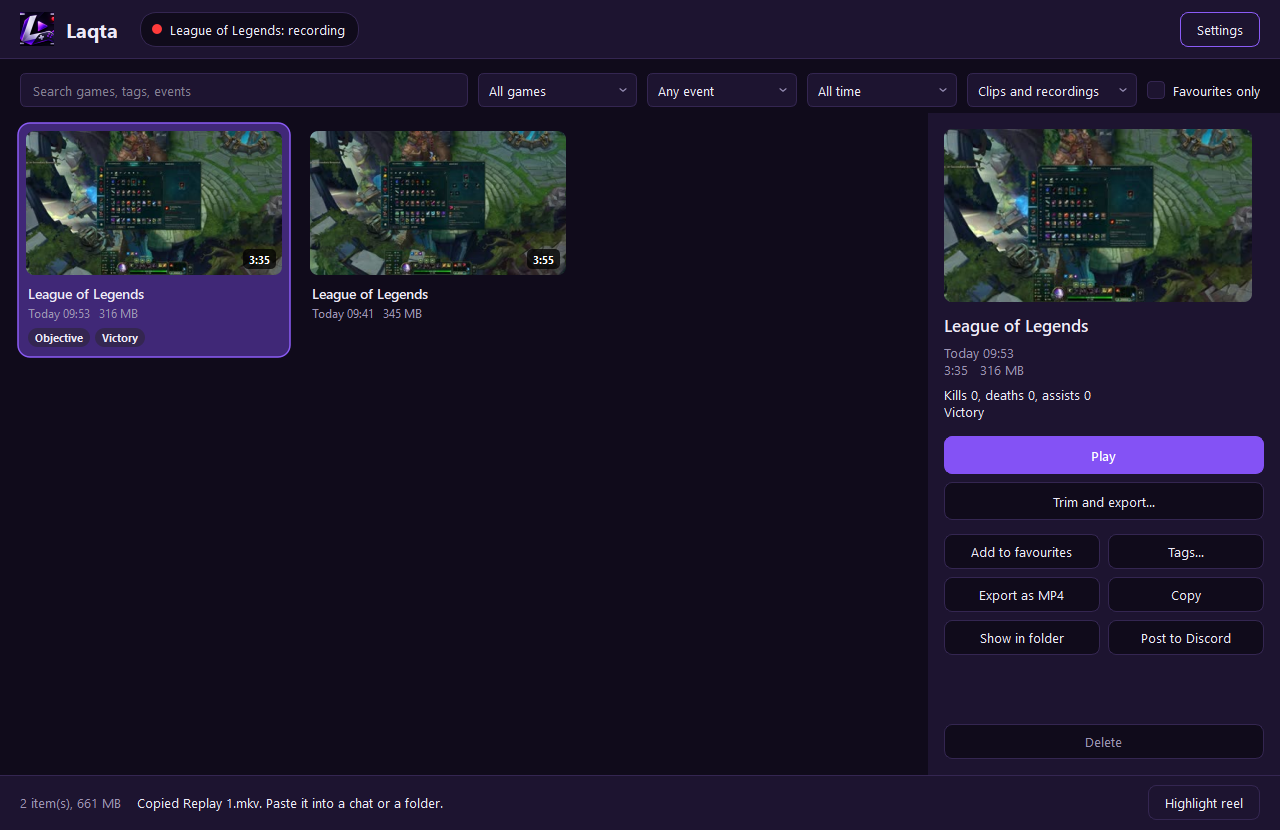
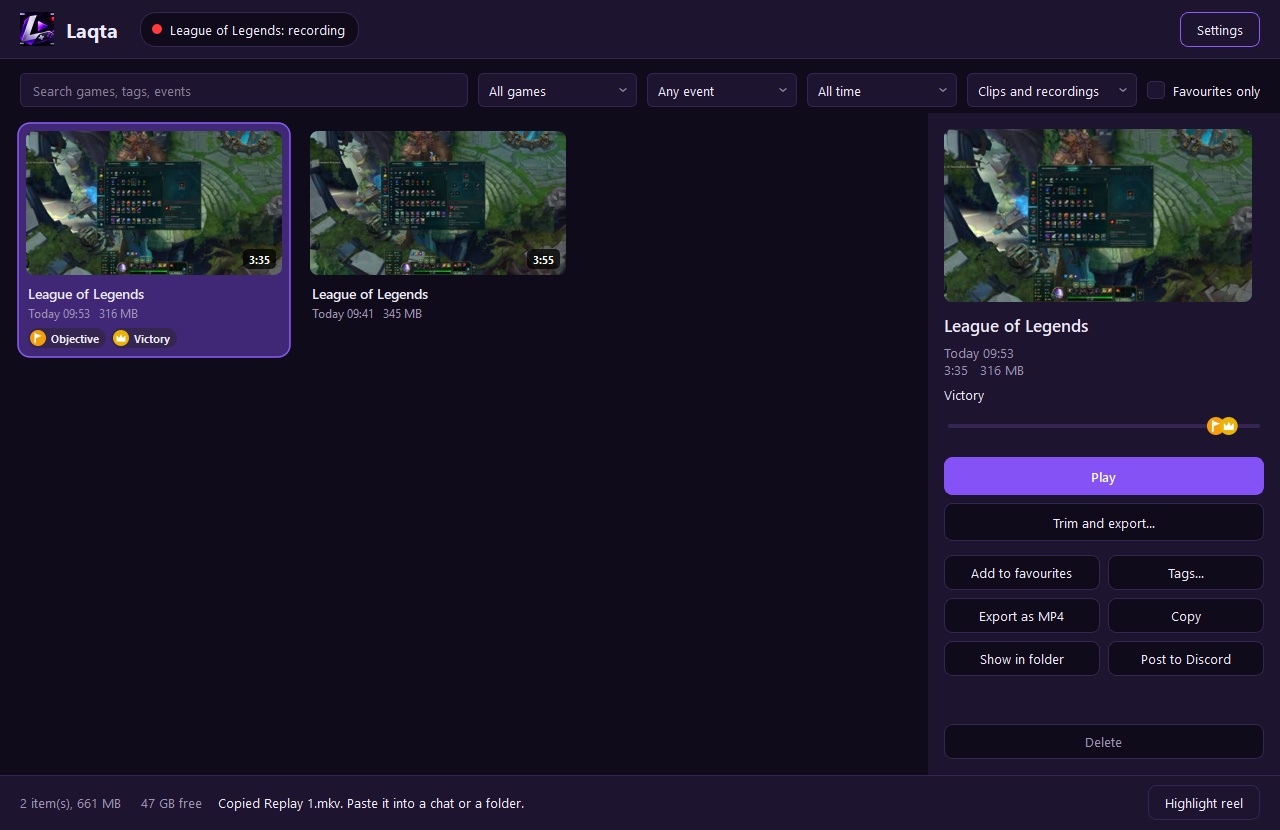
Add-a-game search over installed and running games; Deadlock; mode and event tiles; KDA on cards; free space in the footer

Changed region(s): [[0.7188, 0.4518, 1.0, 0.8133], [0.0938, 0.9639, 0.4062, 0.994], [0.0, 0.3916, 0.1562, 0.4217]]

diff --git a/laqta/ui/settings.py b/laqta/ui/settings.py
@@ -5,10 +5,10 @@ from __future__ import annotations
 import copy
 from pathlib import Path
 
-from PySide6.QtCore import Qt
-from PySide6.QtGui import QKeySequence
+from PySide6.QtCore import QSize, Qt
+from PySide6.QtGui import QIcon, QKeySequence
 from PySide6.QtWidgets import (
-    QApplication, QCheckBox, QColorDialog, QComboBox, QDialog, QFileDialog, QFormLayout, QFrame, QHBoxLayout, QKeySequenceEdit, QLabel, QLineEdit,
+    QApplication, QButtonGroup, QCheckBox, QGridLayout, QColorDialog, QComboBox, QDialog, QFileDialog, QFormLayout, QFrame, QHBoxLayout, QKeySequenceEdit, QLabel, QLineEdit,
     QListWidget, QListWidgetItem, QPushButton, QScrollArea, QSpinBox, QStackedWidget, QVBoxLayout, QWidget,
 )  # fmt: skip
 
@@ -22,7 +22,7 @@ from ..obs_controller.capture import KINDS
 from ..plugins import PLUGINS
 from ..storage import autostart, clips, config
 from ..storage.clips import usable_folder
-from . import theme
+from . import icons, theme
 
 # -- config edits (no Qt: unit-tested) ------------------------------------------------
 
@@ -79,39 +79,116 @@ def _spin(value: int, low: int, high: int) -> QSpinBox:
     return spin
 
 
-class PickRunningApp(QDialog):
+def addable_games(known: set[str], installed: list[dict], running: list[str]) -> list[dict]:
+    """What the "Add a game" window offers: installed games first, then other programs running
+    right now, without anything already in the list or anything that is clearly not a game."""
+    offered: dict[str, dict] = {}
+    for game in installed:
+        key = game["exe"].lower()
+        if key not in known and key not in offered:
+            offered[key] = {"exe": game["exe"], "name": game["name"], "where": "installed"}
+    for exe in sorted(set(running), key=str.lower):
+        key = exe.lower()
+        if key.endswith(".exe") and key not in known and key not in offered and key not in NOT_GAMES:
+            offered[key] = {"exe": exe, "name": Path(exe).stem, "where": "running"}
+    return list(offered.values())
+
+
+class AddGameDialog(QDialog):
+    """Search the games installed on this PC (Steam, Epic, GOG) and the programs running now,
+    and add any of them. Nothing is looked up online: the list is this PC's own."""
+
     def __init__(self, parent: QWidget, known: set[str]):
         super().__init__(parent)
-        self.setWindowTitle(t("games.pick_title"))
-        self.resize(380, 460)
+        self.setWindowTitle(t("games.add_title"))
+        self.resize(460, 560)
         layout = QVBoxLayout(self)
-        layout.addWidget(_label(t("games.pick_hint"), "hint"))
+        layout.setContentsMargins(20, 18, 20, 16)
+        layout.setSpacing(10)
         self.filter = QLineEdit()
+        self.filter.setPlaceholderText(t("games.search"))
         self.filter.setClearButtonEnabled(True)
         self.list = QListWidget()
-        names = sorted({n for n in processes().values() if n.lower() not in known | NOT_GAMES and n.lower().endswith(".exe")}, key=str.lower)
-        self.list.addItems(names)
+        self.list.setSelectionMode(QListWidget.SelectionMode.ExtendedSelection)
+        self.setCursor(Qt.CursorShape.WaitCursor)
+        try:  # ponytail: scanned on the UI thread, about a second; a worker thread if big libraries stall it
+            installed = library_scan.scan(known)
+        finally:
+            self.unsetCursor()
+        section = None
+        for game in addable_games(known, installed, list(processes().values())):
+            if game["where"] != section:
+                section = game["where"]
+                head = QListWidgetItem(t(f"games.{section}"))
+                head.setFlags(Qt.ItemFlag.NoItemFlags)  # a heading, not a choice
+                bold = head.font()
+                bold.setBold(True)
+                head.setFont(bold)
+                self.list.addItem(head)
+            item = QListWidgetItem(game["name"] if game["where"] == "running" else f"{game['name']}   ({game['exe']})")
+            item.setData(Qt.ItemDataRole.UserRole, game)
+            self.list.addItem(item)
+        self.note = _label(t("games.add_hint") if self.list.count() else t("games.add_none"), "hint")
         self.filter.textChanged.connect(self._apply_filter)
         self.list.itemDoubleClicked.connect(lambda _: self.accept())
-        add, cancel = QPushButton(t("button.add")), QPushButton(t("button.cancel"))
+        browse, add, cancel = QPushButton(t("games.browse")), QPushButton(t("button.add")), QPushButton(t("button.cancel"))
         add.setObjectName("primary")
+        add.setDefault(True)
         add.clicked.connect(self.accept)
         cancel.clicked.connect(self.reject)
+        browse.clicked.connect(self._browse)
+        self.browsed: dict | None = None
         buttons = QHBoxLayout()
+        buttons.setSpacing(10)
+        buttons.addWidget(browse)
         buttons.addStretch(1)
         buttons.addWidget(cancel)
         buttons.addWidget(add)
         layout.addWidget(self.filter)
         layout.addWidget(self.list, 1)
+        layout.addWidget(self.note)
         layout.addLayout(buttons)
+        self.filter.setFocus()
 
     def _apply_filter(self, text: str) -> None:
+        text = text.strip().lower()
         for i in range(self.list.count()):
-            self.list.item(i).setHidden(text.lower() not in self.list.item(i).text().lower())
+            item = self.list.item(i)
+            game = item.data(Qt.ItemDataRole.UserRole)
+            # Headings stay while searching is off; a search shows matches only.
+            item.setHidden(bool(text) and (game is None or text not in f"{game['name']} {game['exe']}".lower()))
 
-    def chosen(self) -> str | None:
-        item = self.list.currentItem()
-        return item.text() if item and not item.isHidden() else None
+    def _browse(self) -> None:
+        chosen, _ = QFileDialog.getOpenFileName(self, t("games.browse"), "", "Programs (*.exe)")
+        if chosen:
+            self.browsed = {"exe": Path(chosen).name, "name": Path(chosen).stem}
+            self.accept()
+
+    def chosen(self) -> list[dict]:
+        if self.browsed:
+            return [self.browsed]
+        return [item.data(Qt.ItemDataRole.UserRole) for item in self.list.selectedItems() if not item.isHidden() and item.data(Qt.ItemDataRole.UserRole)]
+
+
+class Tile(QPushButton):
+    """A choice shown as a block with a title and a line of explanation; checked = chosen."""
+
+    def __init__(self, title: str, hint: str = ""):
+        super().__init__()
+        self.setObjectName("tile")
+        self.setCheckable(True)
+        self.setAccessibleName(title)
+        self.setAccessibleDescription(hint)
+        inside = QVBoxLayout(self)
+        inside.setContentsMargins(12, 9, 12, 9)
+        inside.setSpacing(2)
+        for text, name in ((title, "tileTitle"), (hint, "tileHint")):
+            if text:
+                label = _label(text, name)
+                label.setAttribute(Qt.WidgetAttribute.WA_TransparentForMouseEvents)
+                inside.addWidget(label)
+        inside.addStretch(1)
+        self.setMinimumHeight(78 if hint else 40)
 
 
 class SettingsWindow(QDialog):
@@ -125,7 +202,8 @@ class SettingsWindow(QDialog):
 
         self.rail = QListWidget()
         self.rail.setObjectName("rail")
-        self.rail.setFixedWidth(170)
+        self.rail.setFixedWidth(196)
+        self.rail.setHorizontalScrollBarPolicy(Qt.ScrollBarPolicy.ScrollBarAlwaysOff)
         self.pages = QStackedWidget()
         for key, page in (("nav.general", self._general()), ("nav.games", self._games()), ("nav.recording", self._recording()),
                           ("nav.audio", self._audio()), ("nav.appearance", self._appearance()), ("nav.sharing", self._sharing()), ("nav.health", self._health())):
@@ -490,14 +568,13 @@ class SettingsWindow(QDialog):
         self.game_list.setHorizontalScrollBarPolicy(Qt.ScrollBarPolicy.ScrollBarAlwaysOff)
         self.game_list.setTextElideMode(Qt.TextElideMode.ElideMiddle)
         self.game_list.currentItemChanged.connect(lambda *_: self._show_game())
-        scan, add = QPushButton(t("games.scan")), QPushButton(t("games.add"))
-        scan.clicked.connect(self._scan)
-        add.clicked.connect(self._add_running)
+        add = QPushButton(t("games.add_title"))
+        add.setObjectName("primary")
+        add.clicked.connect(self._add_game)
         self.scan_result = _label("", "hint")
         left = QVBoxLayout()
+        left.addWidget(add)  # above the list: below it, it fell off the bottom of a short window
         left.addWidget(self.game_list, 1)
-        left.addWidget(scan)
-        left.addWidget(add)
         left.addWidget(self.scan_result)
 
         self.detail = QVBoxLayout()
@@ -550,21 +627,26 @@ class SettingsWindow(QDialog):
         self.detail.addWidget(_label(game.get("name") or exe, "gameName"))
         self.detail.addWidget(_label(exe, "muted"))
 
-        mode = _combo([(t(f"mode.{m}"), m) for m in MODES], game["mode"])
-        mode_help = _label(t(f"mode.{game['mode']}.help"), "hint")
+        tiles = QGridLayout()
+        tiles.setSpacing(8)
+        group = QButtonGroup(self.detail)
+        for i, m in enumerate(("session", "match", "events")):
+            tile = Tile(t(f"mode.{m}"), t(f"mode.{m}.help"))
+            tile.setChecked(m == ("session" if game["mode"] == "hybrid" else game["mode"]))  # hybrid is session under an old name
+            tile.clicked.connect(lambda _=False, chosen=m: set_game(self.cfg, exe, mode=chosen))
+            group.addButton(tile)
+            tiles.addWidget(tile, i, 0)  # full width: the explanations need the room
+        modes = QWidget()
+        modes.setObjectName("page")
+        modes.setLayout(tiles)
+        self.detail.addWidget(_label(t("games.mode"), "muted"))
+        self.detail.addWidget(modes)
         capture = _combo([(t("capture.auto"), None)] + [(t(f"capture.{k}"), k) for k in KINDS], game.get("capture"))
 
-        def on_mode() -> None:
-            set_game(self.cfg, exe, mode=mode.currentData())
-            mode_help.setText(t(f"mode.{mode.currentData()}.help"))
-
-        mode.currentIndexChanged.connect(on_mode)
         capture.currentIndexChanged.connect(lambda: set_game(self.cfg, exe, capture=capture.currentData()))
         form = QFormLayout()
         form.setVerticalSpacing(10)
         form.setHorizontalSpacing(16)
-        form.addRow(t("games.mode"), mode)
-        form.addRow("", mode_help)
         form.addRow(t("games.capture"), capture)
         game_audio = QCheckBox(t("games.game_audio"))
         game_audio.setChecked(bool(game.get("game_audio_only")))
@@ -612,23 +694,24 @@ class SettingsWindow(QDialog):
                 self.detail.addWidget(_label(t("games.player_hint"), "hint"))
             self.detail.addWidget(_label(t("games.events"), "muted"))
             disabled = set(game.get("disabled_events", ()))
-            boxes: dict[str, QCheckBox] = {}
+            boxes: dict[str, QPushButton] = {}
 
             def on_toggle() -> None:
                 set_game(self.cfg, exe, disabled_events=[e for e, b in boxes.items() if not b.isChecked()])
 
-            grid = QHBoxLayout()
-            columns = [QVBoxLayout(), QVBoxLayout()]
+            grid = QGridLayout()
+            grid.setSpacing(8)
             events = [e for e in plugin.event_types if e not in BOUNDARIES]
             for i, event in enumerate(events):
-                box = QCheckBox(t(f"event.{event}"))
+                box = QPushButton(t(f"event.{event}"))
+                box.setObjectName("tile")
+                box.setCheckable(True)
+                box.setIcon(QIcon(icons.pixmap(event, 18)))
+                box.setIconSize(QSize(18, 18))
                 box.setChecked(event not in disabled)
                 box.toggled.connect(on_toggle)
                 boxes[event] = box
-                columns[i * 2 // max(1, len(events))].addWidget(box)
-            for column in columns:
-                column.addStretch(1)
-                grid.addLayout(column)
+                grid.addWidget(box, i // 2, i % 2)
             holder = QWidget()
             holder.setObjectName("page")
             holder.setLayout(grid)
@@ -645,24 +728,13 @@ class SettingsWindow(QDialog):
         bottom.setLayout(row)
         self.detail.addWidget(bottom)
 
-    def _scan(self) -> None:
-        # ponytail: runs on the UI thread (about a second here); move to a worker thread if
-        # big libraries on slow disks make the window stall.
-        self.setCursor(Qt.CursorShape.WaitCursor)
-        try:
-            found = library_scan.scan(set(self._effective()))
-        finally:
-            self.unsetCursor()
-        for game in found:
-            set_game(self.cfg, game["exe"], name=game["name"])
-        self.scan_result.setText(t("games.scan_done", count=len(found)))
-        self._fill_games(found[0]["exe"] if found else None)
-
-    def _add_running(self) -> None:
-        dialog = PickRunningApp(self, set(self._effective()))
-        if dialog.exec() and (exe := dialog.chosen()):
-            set_game(self.cfg, exe, name=Path(exe).stem)
-            self._fill_games(exe)
+    def _add_game(self) -> None:
+        dialog = AddGameDialog(self, set(self._effective()))
+        if dialog.exec() and (games := dialog.chosen()):
+            for game in games:
+                set_game(self.cfg, game["exe"], name=game["name"])
+            self.scan_result.setText(t("games.added", count=len(games)))
+            self._fill_games(games[0]["exe"])
 
     # -- Save ------------------------------------------------------------------
 

diff --git a/laqta/i18n.py b/laqta/i18n.py
@@ -98,6 +98,16 @@ STRINGS: dict[str, tuple[str, str]] = {
     "games.mode": ("Recording mode", "وضع التسجيل"),
     "games.capture": ("Capture method", "طريقة الالتقاط"),
     "games.events": ("Events that make a clip or mark", "الأحداث التي تصنع لقطة أو علامة"),
+    "games.add_title": ("Add a game…", "أضف لعبة…"),
+    "games.search": ("Search your games", "ابحث في ألعابك"),
+    "games.installed": ("Installed on this PC", "مثبّتة على هذا الحاسوب"),
+    "games.running": ("Running right now", "تعمل الآن"),
+    "games.browse": ("Browse for a program…", "اختر ملف برنامج…"),
+    "games.add_hint": ("Games found in your Steam, Epic and GOG libraries, and programs running now. Select one or more. Not listed? Start the game and open this again, or browse for its program file.", "الألعاب الموجودة في مكتبات Steam وEpic وGOG، والبرامج التي تعمل الآن. اختر واحدة أو أكثر. غير موجودة؟ شغّل اللعبة وافتح هذه النافذة من جديد، أو اختر ملف برنامجها."),
+    "games.add_none": ("No new games were found. Start the game and open this again, or browse for its program file.", "لم يُعثر على ألعاب جديدة. شغّل اللعبة وافتح هذه النافذة من جديد، أو اختر ملف برنامجها."),
+    "games.added": ("{count} game(s) added. Save changes to keep them.", "أُضيفت {count} لعبة. احفظ التغييرات للإبقاء عليها."),
+    "card.kda": ("KDA {kills}/{deaths}/{assists}", "KDA {kills}/{deaths}/{assists}"),
+    "library.free": ("{free} GB free", "المتاح {free} غيغابايت"),
     "games.player": ("Your name in this game", "اسمك في هذه اللعبة"),
     "games.player_hint": ("Leave empty if you play through Steam on this PC: Laqta recognises your Steam account. Fill it in for an Epic account, or if your goals are not being picked up.", "اتركه فارغًا إذا كنت تلعب عبر Steam على هذا الحاسوب: يتعرف لقطة على حسابك في Steam. املأه لحساب Epic أو إذا لم تُلتقط أهدافك."),
     "games.no_plugin": ("No automatic event detection for this game yet. The clip hotkey still works.", "لا يوجد اكتشاف تلقائي للأحداث لهذه اللعبة بعد. اختصار اللقطة يعمل دائمًا."),

diff --git a/laqta/ui/library.py b/laqta/ui/library.py
@@ -196,7 +196,13 @@ class Card(QStyledItemDelegate):
         painter.setFont(sub)
         painter.setPen(QColor(c["muted"]))
         line.translate(0, 20)
-        about = when_text(clip.when) if clip.kind == "clip" or not clip.size else f"{when_text(clip.when)}   {size_text(clip.size)}"
+        stats = library.summary(clip)
+        if stats and (stats["kills"] or stats["deaths"] or stats["assists"]) and "goals" not in stats:
+            about = f"{when_text(clip.when)}   {t('card.kda', kills=stats['kills'], deaths=stats['deaths'], assists=stats['assists'])}"
+        elif clip.kind == "clip" or not clip.size:
+            about = when_text(clip.when)
+        else:
+            about = f"{when_text(clip.when)}   {size_text(clip.size)}"
         painter.drawText(line, lead | Qt.AlignmentFlag.AlignVCenter, about)
 
         # what happened, as small tags from the leading edge
@@ -533,7 +539,9 @@ class LibraryWindow(QDialog):
                 shown, total = shown + 1, total + clip.size
             elif item.isSelected():
                 item.setSelected(False)
-        self.count.setText(t("library.count", count=shown, size=size_text(total)) if shown else "")
+        free = clips.free_bytes(self.root)
+        room = t("library.free", free=f"{free / 1024**3:.0f}") if free is not None else ""
+        self.count.setText("     ".join(filter(None, (t("library.count", count=shown, size=size_text(total)) if shown else "", room))))
         self.grid.setVisible(shown > 0)
         self.empty.setVisible(shown == 0)
         self.empty.setText(t("library.no_match" if self.clips else "library.empty"))

diff --git a/tests/test_settings.py b/tests/test_settings.py
@@ -60,3 +60,17 @@ def test_every_string_exists_in_every_language_with_the_same_placeholders():
         assert len(row) == len(i18n.LANGUAGES) and all(row), key
         assert len({tuple(sorted(re.findall(r"{(\w+)}", text))) for text in row}) == 1, key
     assert i18n.t("no.such.key") == "no.such.key"
+
+
+def test_add_a_game_offers_installed_games_then_running_programs_without_known_ones_or_system_programs():
+    from laqta.ui.settings import addable_games
+
+    installed = [{"exe": "Hades2.exe", "name": "Hades II"}, {"exe": "cs2.exe", "name": "Counter-Strike 2"}]
+    running = ["Hades2.exe", "MyIndieGame.exe", "explorer.exe", "CS2.EXE", "notes.txt", "MyIndieGame.exe"]
+    offered = addable_games({"cs2.exe"}, installed, running)
+    assert offered == [{"exe": "Hades2.exe", "name": "Hades II", "where": "installed"},
+                       {"exe": "MyIndieGame.exe", "name": "MyIndieGame", "where": "running"}]
+
+
+def test_deadlock_is_a_built_in_game():
+    assert "deadlock.exe" in builtin_exes()

diff --git a/laqta/ui/theme.py b/laqta/ui/theme.py
@@ -144,6 +144,10 @@ QLabel#badge_bad {{ color: {STATUS['bad']}; }}
 QLabel#checkTitle {{ font-weight: 600; }}
 QLabel#toast {{ background: {c['panel']}; border: 1px solid {c['accent']}; padding: 12px 16px; font-size: 14px; }}
 QTextBrowser {{ background: {c['panel']}; border: 1px solid {c['line']}; border-radius: 6px; padding: 8px; }}
+QPushButton#tile {{ text-align: left; padding: 9px 12px; }}
+QPushButton#tile:checked {{ background: {c['accent_dim']}; border: 1px solid {c['accent']}; }}
+QLabel#tileTitle {{ font-weight: 600; font-size: 14px; background: transparent; }}
+QLabel#tileHint {{ color: {c['muted']}; font-size: 12px; background: transparent; }}
 QLabel#preview {{ background: #000000; border-radius: 6px; }}
 QStackedWidget#detail QLabel#preview {{ background: transparent; }}
 QProgressBar {{ background: {c['panel']}; border: none; border-radius: 4px; }}

diff --git a/README.md b/README.md
@@ -146,6 +146,17 @@ Everything here is off until you turn it on, in **Settings → Sharing**.
   removed and your user folder is written as `%USERPROFILE%`; no recordings go in, but the
   names of games Laqta recorded do. Nothing is sent anywhere.
 
+### Adding a game
+
+**Settings → Games → Add a game…** opens a searchable list of the games installed on this PC
+(from your Steam, Epic and GOG libraries) and the programs running right now. Select one or
+more and add them; "Browse for a program…" covers anything else. The list is built from your
+own PC; nothing is looked up online. Deadlock is in the built-in list (recording and hotkeys;
+it has no event detection, because the game offers no official data feed).
+
+Each game's page shows the recording mode as three choices and, for games with event
+detection, one tile per event with its symbol: switch off the ones you do not want marked.
+
 ### Sound
 
 Recordings carry separate audio tracks: **1** is everything you hear, **2** is the game, **3** is
